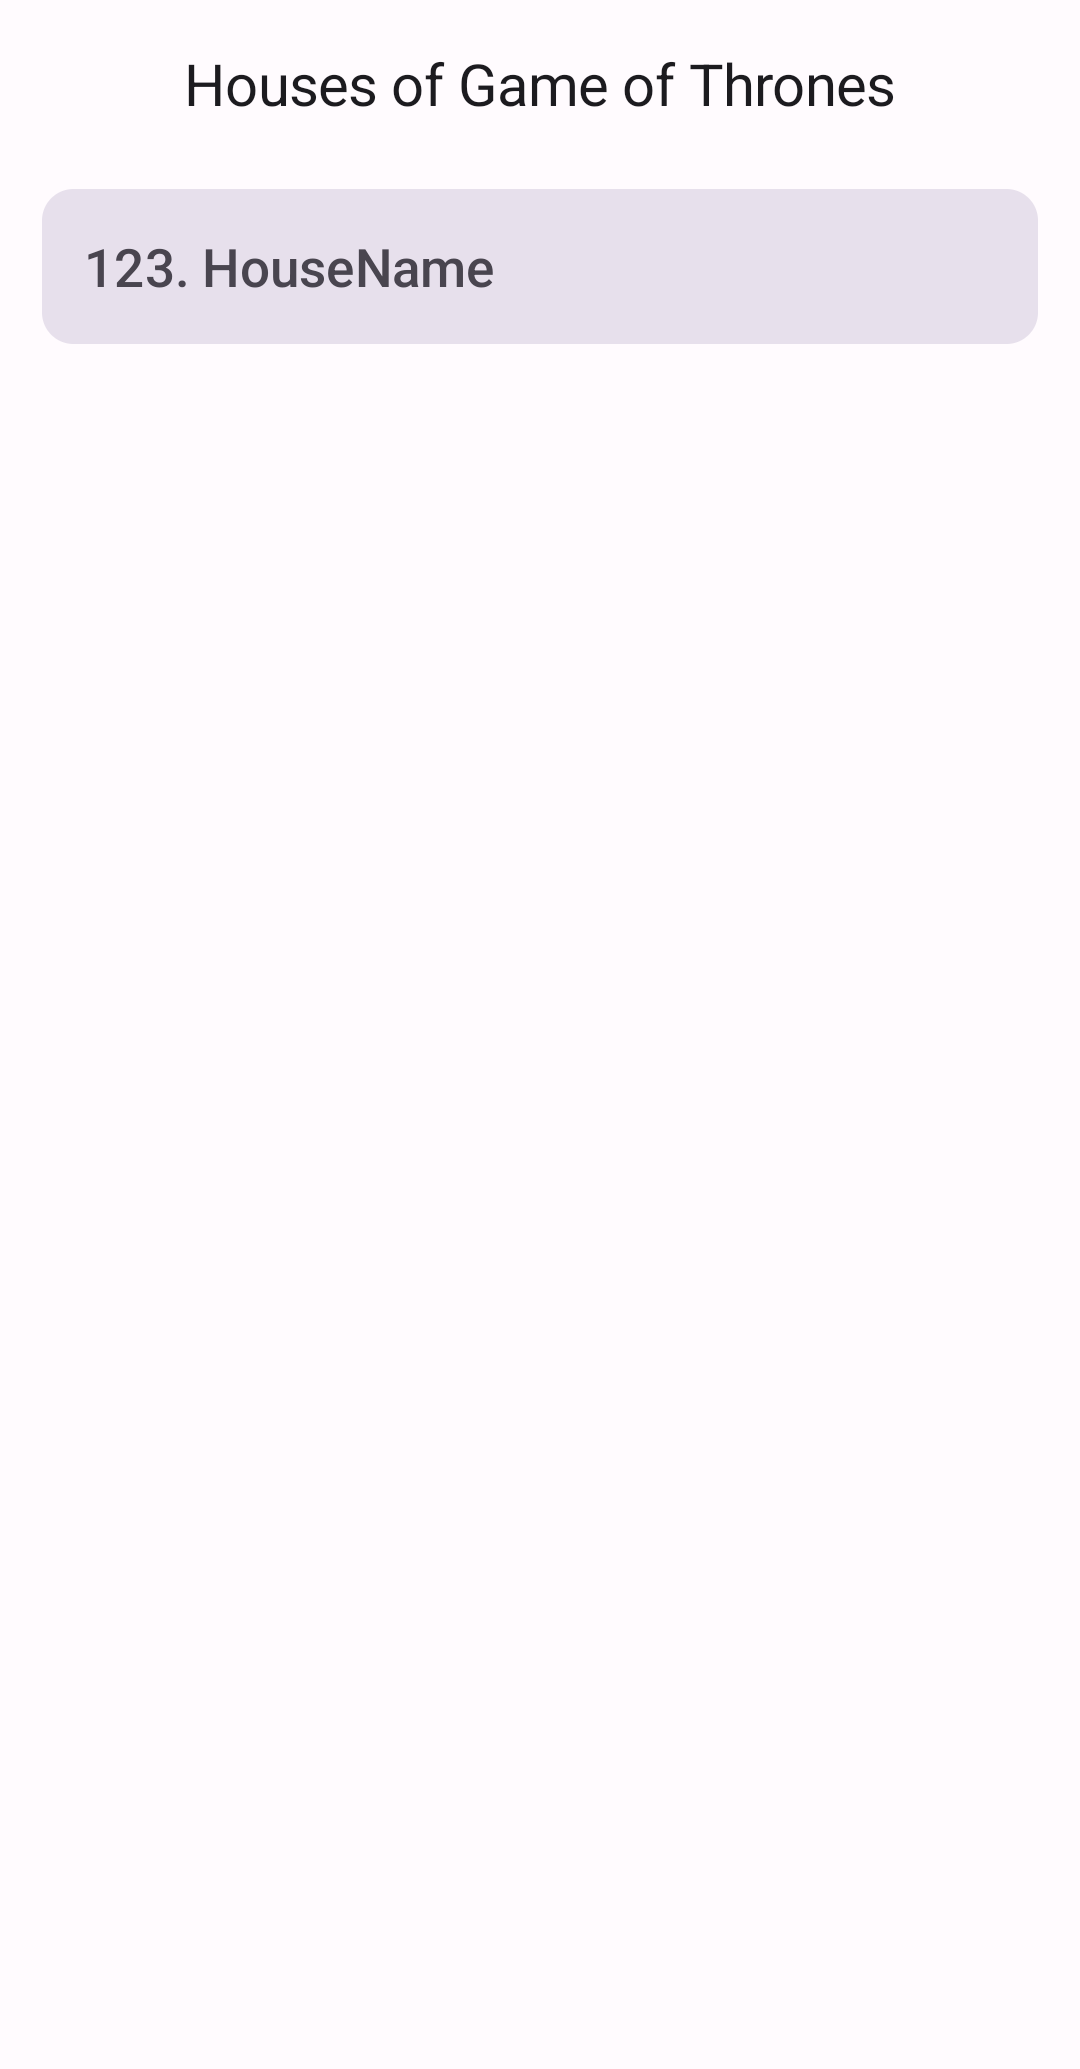
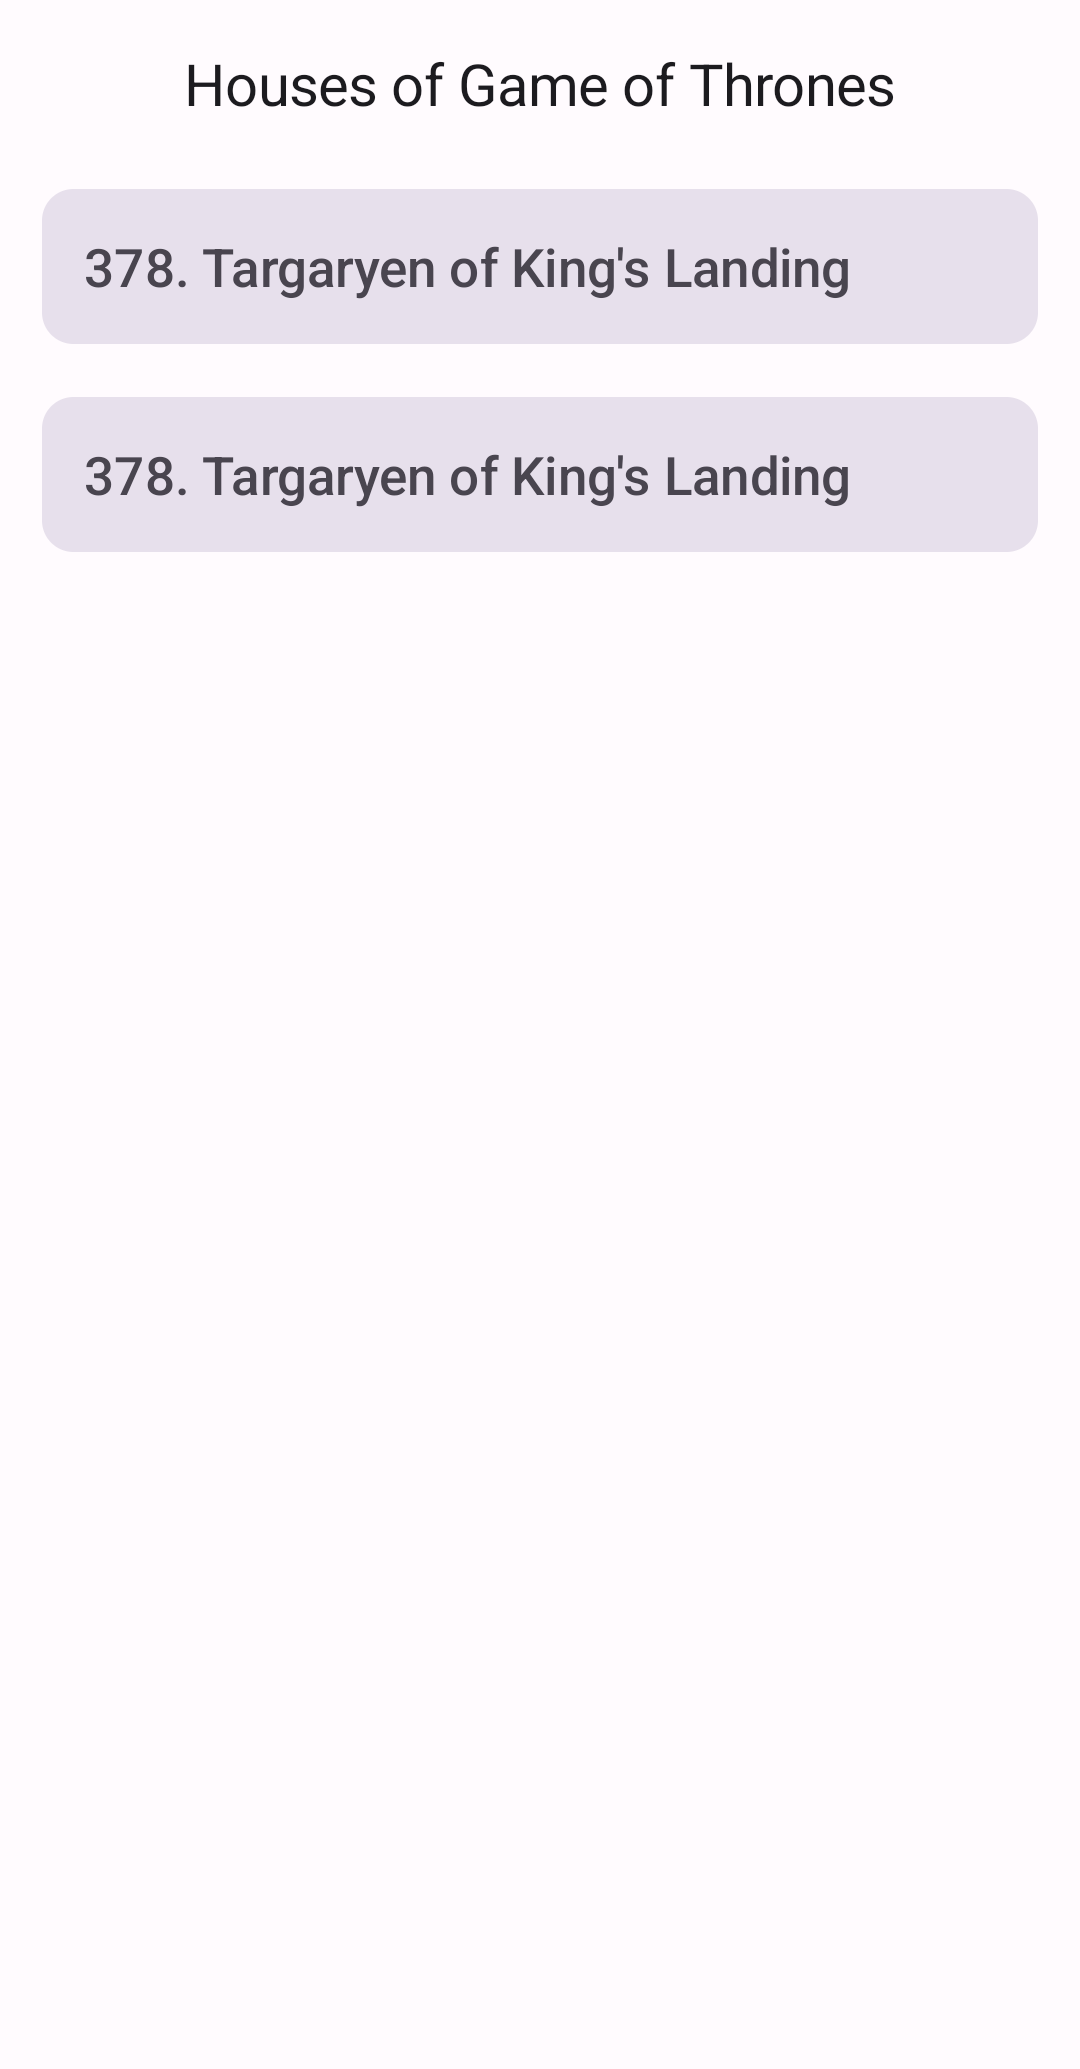
Add more properties to House and fix data mapping issues

Changed region(s): [[0.0306, 0.1856, 0.9778, 0.2784], [0.1833, 0.1237, 0.7944, 0.1547], [0.0917, 0.1237, 0.1528, 0.1547]]

diff --git a/app-android/src/main/java/com/wolfmontwe/mhp/challenge/mobile/android/app/presentation/feature/house/detail/HouseDetailContent.kt b/app-android/src/main/java/com/wolfmontwe/mhp/challenge/mobile/android/app/presentation/feature/house/detail/HouseDetailContent.kt
@@ -34,12 +34,51 @@ fun HouseDetailContent(
             .then(modifier)
             .testTag("HouseDetailContent"),
     ) {
-        if (house != null)
+        if (house != null) {
             HouseDetailContentRowItem(
                 label = stringResource(id = R.string.house_detail_content_row_label_name),
                 text = house.name.substringAfter("House ")
             )
-        else {
+            HouseDetailContentRowItem(
+                label = stringResource(id = R.string.house_detail_content_row_label_region),
+                text = house.region
+            )
+            HouseDetailContentRowItem(
+                label = stringResource(id = R.string.house_detail_content_row_label_coat_of_arms),
+                text = house.coatOfArms
+                    .ifEmpty { stringResource(id = R.string.house_detail_content_row_text_not_available) }
+            )
+            HouseDetailContentRowItem(
+                label = stringResource(id = R.string.house_detail_content_row_label_words),
+                text = house.words
+                    .ifEmpty { stringResource(id = R.string.house_detail_content_row_text_not_available) }
+            )
+            val titles = if (house.titles.isEmpty()) {
+                stringResource(id = R.string.house_detail_content_row_text_no_titles)
+            } else {
+                house.titles.joinToString("\n")
+            }
+            HouseDetailContentRowItem(
+                label = stringResource(id = R.string.house_detail_content_row_label_titles),
+                text = titles
+            )
+            HouseDetailContentRowItem(
+                label = stringResource(id = R.string.house_detail_content_row_label_seats),
+                text = (
+                    if (house.seats.isNotEmpty()) house.seats.joinToString("\n")
+                    else stringResource(id = R.string.house_detail_content_row_text_no_seats)
+                    )
+            )
+            HouseDetailContentRowItem(
+                label = stringResource(id = R.string.house_detail_content_row_label_members),
+                text = "${house.members}"
+            )
+            HouseDetailContentRowItem(
+                label = stringResource(id = R.string.house_detail_content_row_label_founded),
+                text = house.founded
+                    .ifEmpty { stringResource(id = R.string.house_detail_content_row_text_not_available) }
+            )
+        } else {
             Row(
                 modifier = Modifier.fillMaxWidth(),
                 horizontalArrangement = Arrangement.Center
@@ -65,7 +104,14 @@ fun HouseDetailContentPreview() {
         HouseDetailContent(
             house = House(
                 id = Identifier("123"),
-                name = "House name"
+                name = "TestName",
+                region = "TestRegion",
+                coatOfArms = "TestCoatOfArms",
+                words = "TestWords",
+                titles = listOf("TestTitle1", "TestTitle2"),
+                seats = listOf("TestSeat1", "TestSeat2"),
+                members = 11,
+                founded = "TestFounded"
             ),
         )
     }

diff --git a/app-android/src/androidTest/java/com/wolfmontwe/mhp/challenge/mobile/android/app/presentation/feature/house/list/HouseListScreenKtTest.kt b/app-android/src/androidTest/java/com/wolfmontwe/mhp/challenge/mobile/android/app/presentation/feature/house/list/HouseListScreenKtTest.kt
@@ -14,8 +14,6 @@ import androidx.compose.ui.test.onNodeWithTag
 import androidx.compose.ui.test.performClick
 import androidx.compose.ui.test.runComposeUiTest
 import com.wolfmontwe.mhp.challenge.mobile.android.app.R
-import com.wolfmontwe.mhp.challenge.mobile.android.app.domain.entity.House
-import com.wolfmontwe.mhp.challenge.mobile.android.app.domain.entity.Identifier
 import com.wolfmontwe.mhp.challenge.mobile.android.app.test.compose.assertScreenshotMatches
 import com.wolfmontwe.mhp.challenge.mobile.android.app.test.compose.setThemedContent
 import com.wolfmontwe.mhp.challenge.mobile.android.app.test.compose.setThemedScreenshotContent
@@ -116,12 +114,7 @@ class HouseListScreenKtTest {
         // GIVEN
         val viewModel = HouseListViewModelMock(
             HouseListViewState(
-                items = listOf(
-                    House(
-                        id = Identifier("123"),
-                        name = "HouseName"
-                    )
-                )
+                items = HouseTestFixture.EXAMPLE_LIST
             )
         )
 

diff --git a/app-android/src/test/java/com/wolfmontwe/mhp/challenge/mobile/android/app/domain/entity/HouseTestFixture.kt b/app-android/src/test/java/com/wolfmontwe/mhp/challenge/mobile/android/app/domain/entity/HouseTestFixture.kt
@@ -11,6 +11,24 @@ object HouseTestFixture {
     val EXAMPLE = House(
         id = Identifier("378"),
         name = "House Targaryen of King's Landing",
+        region = "The Crownlands",
+        coatOfArms = "Sable, a dragon thrice-headed gules",
+        words = "Fire and Blood",
+        titles = listOf(
+            "King of the Andals, the Rhoynar and the First Men",
+            "Lord of the Seven Kingdoms",
+            "Prince of Summerhall"
+        ),
+        seats = listOf(
+            "Red Keep (formerly)",
+            "Summerhall (formerly)"
+        ),
+        members = 101,
+        founded = "House Targaryen: >114 BCHouse Targaryen of King's Landing:1 AC",
+    )
+    val EXAMPLE_EMPTY_LISTS = EXAMPLE.copy(
+        titles = emptyList(),
+        seats = emptyList(),
     )
     val EXAMPLE_LIST: List<House> = listOf(EXAMPLE, EXAMPLE)
 

diff --git a/app-android/src/androidTest/java/com/wolfmontwe/mhp/challenge/mobile/android/app/test/fixture/HouseTestFixture.kt b/app-android/src/androidTest/java/com/wolfmontwe/mhp/challenge/mobile/android/app/test/fixture/HouseTestFixture.kt
@@ -14,6 +14,20 @@ object HouseTestFixture {
     val EXAMPLE = House(
         id = Identifier("378"),
         name = "House Targaryen of King's Landing",
+        region = "The Crownlands",
+        coatOfArms = "Sable, a dragon thrice-headed gules",
+        words = "Fire and Blood",
+        titles = listOf(
+            "King of the Andals, the Rhoynar and the First Men",
+            "Lord of the Seven Kingdoms",
+            "Prince of Summerhall"
+        ),
+        seats = listOf(
+            "Red Keep (formerly)",
+            "Summerhall (formerly)"
+        ),
+        members = 101,
+        founded = "House Targaryen: >114 BCHouse Targaryen of King's Landing:1 AC",
     )
     val EXAMPLE_LIST: List<House> = listOf(EXAMPLE, EXAMPLE)
 }

diff --git a/app-android/src/test/java/com/wolfmontwe/mhp/challenge/mobile/android/app/data/mapper/HousesMapperTest.kt b/app-android/src/test/java/com/wolfmontwe/mhp/challenge/mobile/android/app/data/mapper/HousesMapperTest.kt
@@ -75,6 +75,22 @@ class HousesMapperTest {
     }
 
     @Test
+    fun `SHOULD map to domain object and remove empty list entries`() {
+        // GIVEN
+        val houseResponse = HouseResponseTestFixture.EXAMPLE_EMPTY_LISTS
+        val mapperAnswer = Result.success(HouseTestFixture.EXAMPLE.id)
+        idMapperMock.answerMapToDomainObject = { mapperAnswer }
+
+        // WHEN
+        val result = testSubject.mapToDomain(houseResponse)
+
+        // THEN
+        result isOfType Success::class
+        result as Success
+        result.data mustEqual HouseTestFixture.EXAMPLE_EMPTY_LISTS
+    }
+
+    @Test
     fun `SHOULD map to domain list`() {
         // GIVEN
         val houseResponses = listOf(

diff --git a/app-android/src/main/java/com/wolfmontwe/mhp/challenge/mobile/android/app/presentation/feature/house/list/HouseListContent.kt b/app-android/src/main/java/com/wolfmontwe/mhp/challenge/mobile/android/app/presentation/feature/house/list/HouseListContent.kt
@@ -74,8 +74,15 @@ fun HouseListContentPreview() {
             items = listOf(
                 House(
                     id = Identifier("123"),
-                    name = "House Test"
-                )
+                    name = "TestName",
+                    region = "TestRegion",
+                    coatOfArms = "TestCoatOfArms",
+                    words = "TestWords",
+                    titles = listOf("TestTitle1", "TestTitle2"),
+                    seats = listOf("TestSeat1", "TestSeat2"),
+                    members = 11,
+                    founded = "TestFounded"
+                ),
             ),
             isLoading = true,
             onClickHouse = {},

diff --git a/app-android/src/main/java/com/wolfmontwe/mhp/challenge/mobile/android/app/data/mapper/HousesMapper.kt b/app-android/src/main/java/com/wolfmontwe/mhp/challenge/mobile/android/app/data/mapper/HousesMapper.kt
@@ -29,7 +29,14 @@ class HousesMapper(
             Result.success(
                 House(
                     id = identifier,
-                    name = from.name
+                    name = from.name,
+                    region = from.region,
+                    coatOfArms = from.coatOfArms,
+                    words = from.words,
+                    titles = from.titles.filter { it.isNotEmpty() },
+                    seats = from.seats.filter { it.isNotEmpty() },
+                    members = from.swornMembers.filter { it.isNotEmpty() }.size,
+                    founded = from.founded,
                 )
             )
         } catch (exception: Exception) {

diff --git a/app-android/src/main/java/com/wolfmontwe/mhp/challenge/mobile/android/app/presentation/feature/house/list/HouseCardItem.kt b/app-android/src/main/java/com/wolfmontwe/mhp/challenge/mobile/android/app/presentation/feature/house/list/HouseCardItem.kt
@@ -63,8 +63,15 @@ fun HouseCardItemPreview() {
     MainTheme {
         HouseCardItem(
             House(
-                id = Identifier("378"),
-                name = "House Targaryen of King's Landing",
+                id = Identifier("123"),
+                name = "TestName",
+                region = "TestRegion",
+                coatOfArms = "TestCoatOfArms",
+                words = "TestWords",
+                titles = listOf("TestTitle1", "TestTitle2"),
+                seats = listOf("TestSeat1", "TestSeat2"),
+                members = 11,
+                founded = "TestFounded"
             ),
             {}
         )

diff --git a/app-android/src/main/java/com/wolfmontwe/mhp/challenge/mobile/android/app/domain/entity/House.kt b/app-android/src/main/java/com/wolfmontwe/mhp/challenge/mobile/android/app/domain/entity/House.kt
@@ -9,4 +9,11 @@ import com.wolfmontwe.mhp.challenge.mobile.android.app.domain.DomainContract.Ent
 data class House(
     override val id: Identifier,
     val name: String,
+    val region: String,
+    val coatOfArms: String,
+    val words: String,
+    val titles: List<String>,
+    val seats: List<String>,
+    val members: Int,
+    val founded: String,
 ) : Entity

diff --git a/app-android/src/main/java/com/wolfmontwe/mhp/challenge/mobile/android/app/presentation/feature/house/detail/HouseDetailContentRowItem.kt b/app-android/src/main/java/com/wolfmontwe/mhp/challenge/mobile/android/app/presentation/feature/house/detail/HouseDetailContentRowItem.kt
@@ -28,7 +28,7 @@ fun HouseDetailContentRowItem(
         LabelLarge(
             text = label,
             modifier = Modifier
-                .width(80.dp)
+                .width(96.dp)
                 .padding(end = MainThemeDimension.spacingSingle)
         )
         BodyLarge(text = text)

diff --git a/app-android/src/test/java/com/wolfmontwe/mhp/challenge/mobile/android/app/domain/entity/HouseTest.kt b/app-android/src/test/java/com/wolfmontwe/mhp/challenge/mobile/android/app/domain/entity/HouseTest.kt
@@ -11,10 +11,7 @@ import kotlin.test.Test
 
 class HouseTest {
 
-    private val testSubject = House(
-        id = Identifier("123"),
-        name = "HouseName"
-    )
+    private val testSubject = HouseTestFixture.EXAMPLE
 
     @Test
     fun `SHOULD implement contract`() {

diff --git a/app-android/src/androidTest/java/com/wolfmontwe/mhp/challenge/mobile/android/app/presentation/feature/house/detail/HouseDetailScreenKtTest.kt b/app-android/src/androidTest/java/com/wolfmontwe/mhp/challenge/mobile/android/app/presentation/feature/house/detail/HouseDetailScreenKtTest.kt
@@ -123,6 +123,6 @@ class HouseDetailScreenKtTest {
 
         // THEN
         view.assertIsDisplayed()
-            .assertScreenshotMatches("feature", "HouseDetailScreenError", true)
+            .assertScreenshotMatches("feature", "HouseDetailScreenError")
     }
 }
